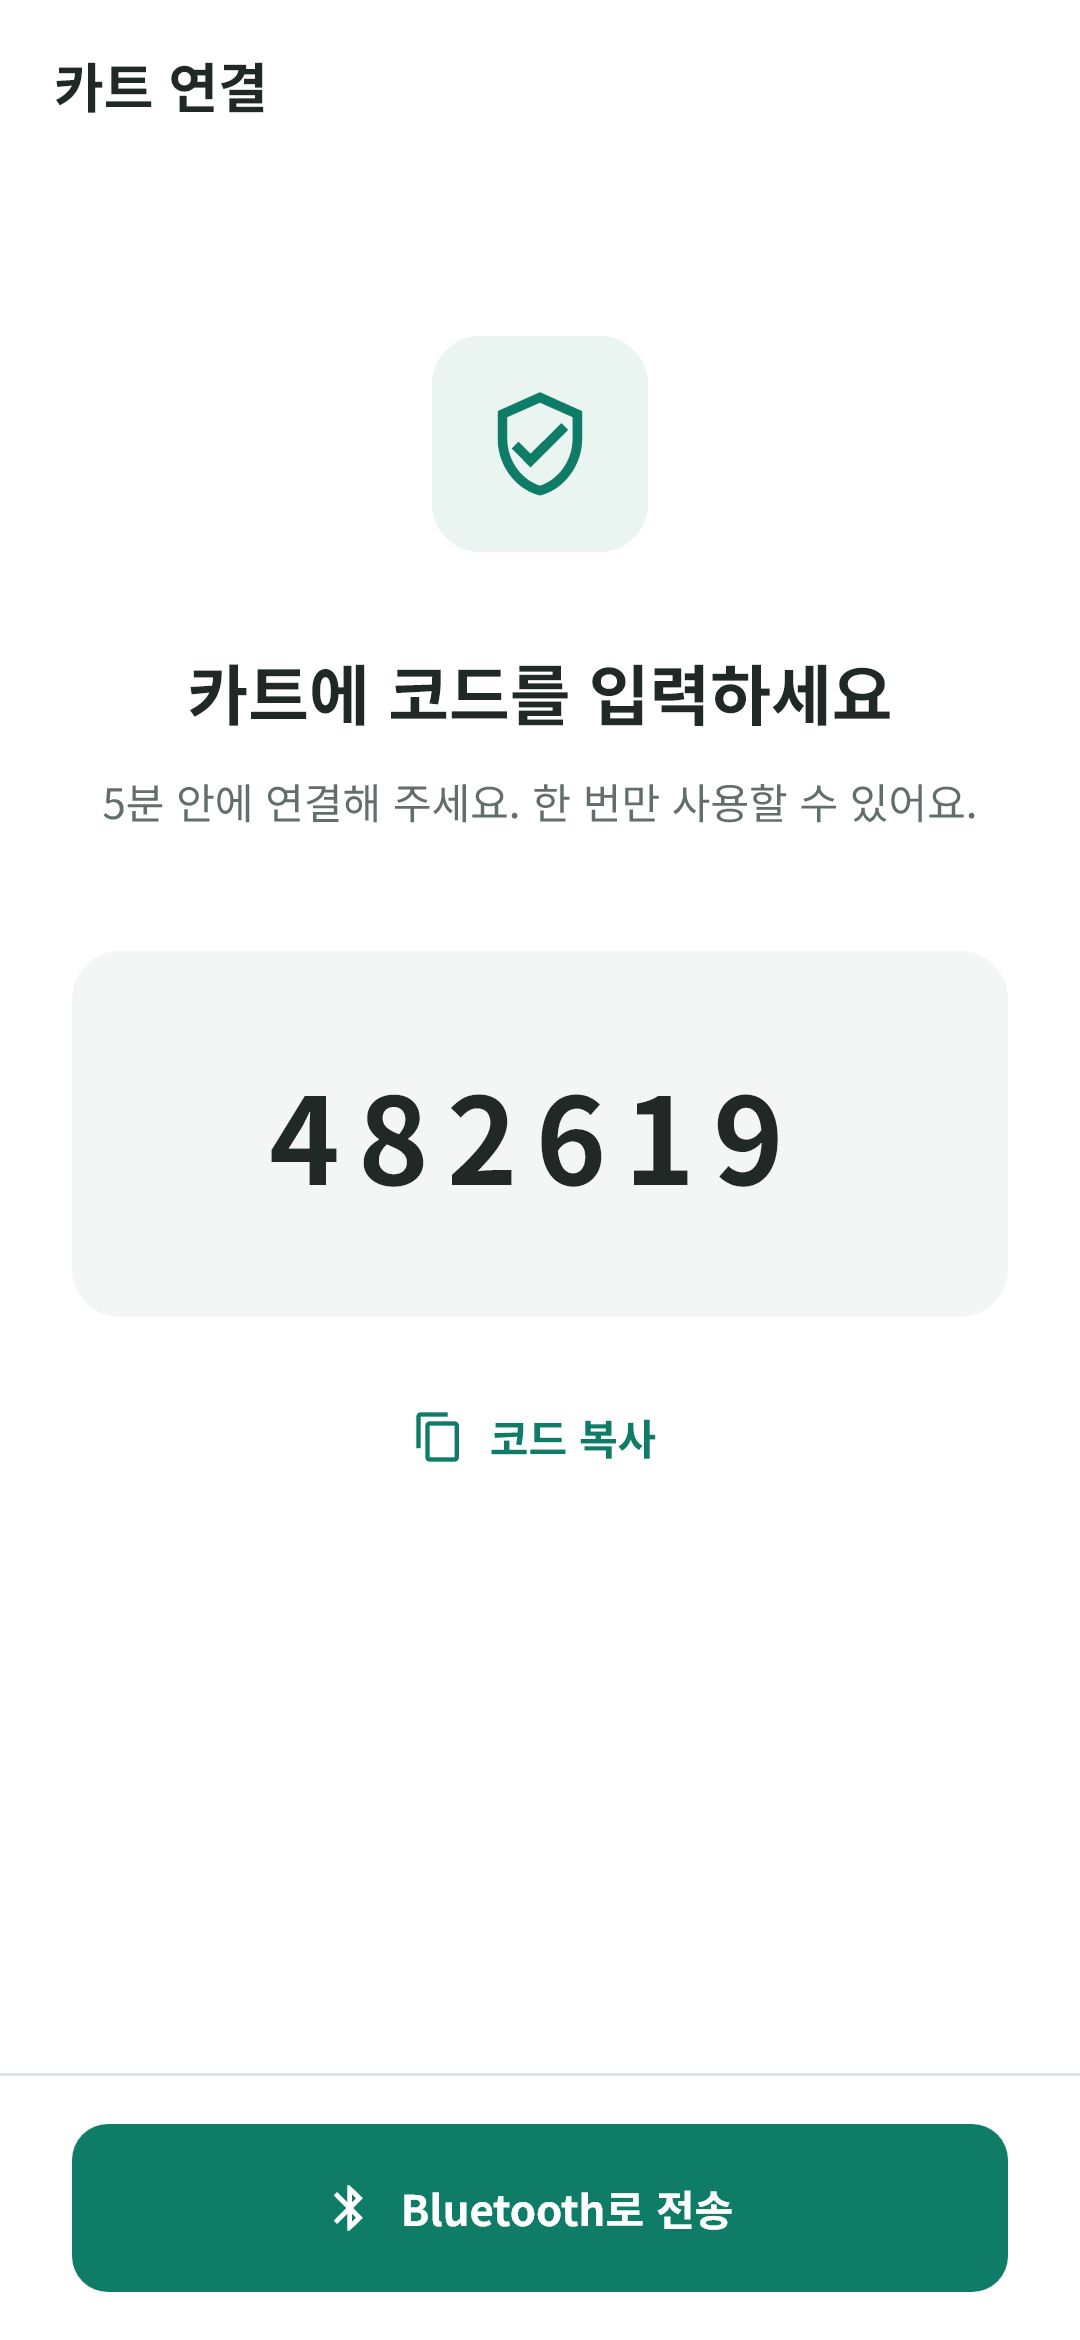
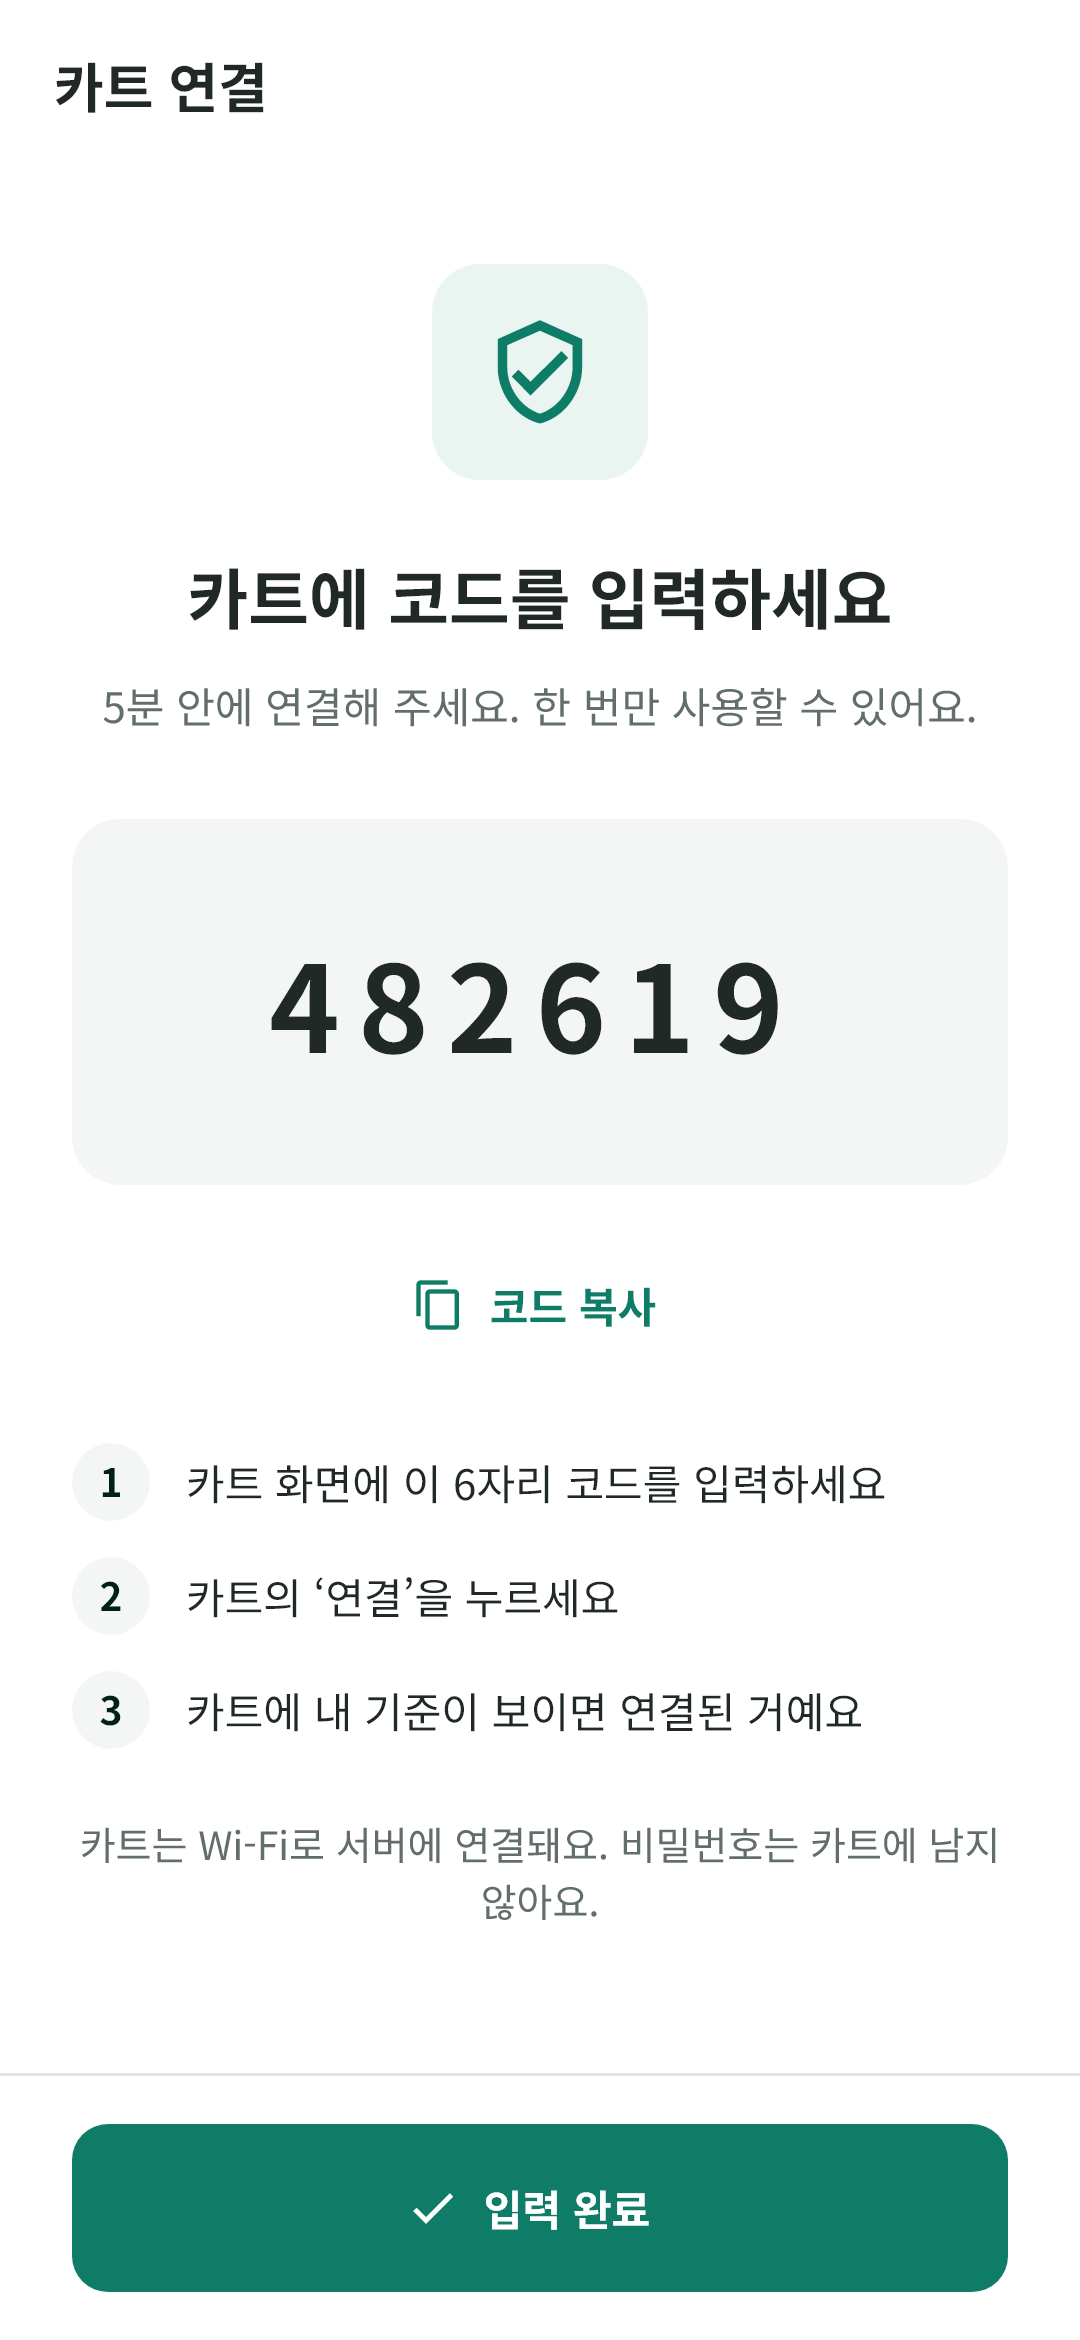
Match the V2 pairing screen to the real cart flow
The cart has no Bluetooth: the user types the one-time code on the cart's
touch screen and the cart exchanges it with the server over Wi-Fi. Replace
the "Bluetooth로 전송" primary action with "입력 완료", add three short steps
that use the cart's own wording, and note that the password never reaches
the cart. Re-captured pairing_code.png; all 26 Flutter tests pass.

diff --git a/V2/mobile/lib/v2_ui.dart b/V2/mobile/lib/v2_ui.dart
@@ -426,22 +426,21 @@ class PairingCodeScreen extends StatelessWidget {
   @override
   Widget build(BuildContext context) => Scaffold(
         appBar: AppBar(title: Text(t('카트 연결'))),
+        // The cart has no Bluetooth: the user types this code on the cart's touch screen,
+        // and the cart exchanges it with the server over Wi-Fi.
         bottomNavigationBar: BottomAction(
           child: FilledButton.icon(
-            onPressed: () => Navigator.push(
-              context,
-              MaterialPageRoute(builder: (_) => CartBleScreen(code: code)),
-            ),
-            icon: const Icon(Icons.bluetooth),
-            label: Text(t('Bluetooth로 전송')),
+            onPressed: () => Navigator.pop(context),
+            icon: const Icon(Icons.check),
+            label: Text(t('입력 완료')),
           ),
         ),
         body: ListView(
           padding: const EdgeInsets.all(24),
           children: [
-            const SizedBox(height: 32),
+            const SizedBox(height: 8),
             const Center(child: BrandMark(size: 72)),
-            const SizedBox(height: 32),
+            const SizedBox(height: 24),
             Text(
               t('카트에 코드를 입력하세요'),
               textAlign: TextAlign.center,
@@ -453,7 +452,7 @@ class PairingCodeScreen extends StatelessWidget {
               textAlign: TextAlign.center,
               style: const TextStyle(color: _mutedInk),
             ),
-            const SizedBox(height: 40),
+            const SizedBox(height: 28),
             SurfacePanel(
               color: _paperWarm,
               borderColor: _paperWarm,
@@ -479,6 +478,36 @@ class PairingCodeScreen extends StatelessWidget {
               },
               icon: const Icon(Icons.copy_outlined),
               label: Text(t('코드 복사')),
+            ),
+            const SizedBox(height: 16),
+            for (final (i, step) in [
+              '카트 화면에 이 6자리 코드를 입력하세요',
+              '카트의 ‘연결’을 누르세요',
+              '카트에 내 기준이 보이면 연결된 거예요',
+            ].indexed)
+              Padding(
+                padding: const EdgeInsets.symmetric(vertical: 6),
+                child: Row(
+                  children: [
+                    CircleAvatar(
+                      radius: 13,
+                      backgroundColor: _paperWarm,
+                      child: Text(
+                        '${i + 1}',
+                        style: const TextStyle(
+                            fontSize: 13, fontWeight: FontWeight.w700),
+                      ),
+                    ),
+                    const SizedBox(width: 12),
+                    Expanded(child: Text(t(step))),
+                  ],
+                ),
+              ),
+            const SizedBox(height: 16),
+            Text(
+              t('카트는 Wi-Fi로 서버에 연결돼요. 비밀번호는 카트에 남지 않아요.'),
+              textAlign: TextAlign.center,
+              style: const TextStyle(color: _mutedInk, fontSize: 13),
             ),
           ],
         ),

diff --git a/V2/mobile/lib/v2_strings.dart b/V2/mobile/lib/v2_strings.dart
@@ -76,6 +76,36 @@ const v2Strings = <String, Map<String, String>>{
     'zh': '请在5分钟内连接。连接码仅可使用一次。',
     'ja': '5分以内に接続してください。1回のみ使えます。'
   },
+  '입력 완료': {
+    'en': 'Done',
+    'ar': 'تم الإدخال',
+    'zh': '输入完成',
+    'ja': '入力完了'
+  },
+  '카트 화면에 이 6자리 코드를 입력하세요': {
+    'en': 'Type this 6-digit code on the cart screen',
+    'ar': 'اكتب هذا الرمز المكوّن من 6 أرقام على شاشة العربة',
+    'zh': '在购物车屏幕上输入这6位连接码',
+    'ja': 'カートの画面にこの6桁のコードを入力'
+  },
+  '카트의 ‘연결’을 누르세요': {
+    'en': 'Tap “Connect” on the cart',
+    'ar': 'اضغط «ربط» على العربة',
+    'zh': '点击购物车上的“连接”',
+    'ja': 'カートの「接続」をタップ'
+  },
+  '카트에 내 기준이 보이면 연결된 거예요': {
+    'en': 'When your criteria appear on the cart, you are connected',
+    'ar': 'عندما تظهر معاييرك على العربة، يكون الربط قد تم',
+    'zh': '购物车上显示您的标准即表示已连接',
+    'ja': 'カートに自分の基準が表示されれば接続完了です'
+  },
+  '카트는 Wi-Fi로 서버에 연결돼요. 비밀번호는 카트에 남지 않아요.': {
+    'en': 'The cart connects to the server over Wi-Fi. Your password is never stored on the cart.',
+    'ar': 'تتصل العربة بالخادم عبر Wi-Fi. لا تُحفظ كلمة المرور على العربة.',
+    'zh': '购物车通过Wi-Fi连接服务器，密码不会保存在购物车上。',
+    'ja': 'カートはWi-Fiでサーバーに接続します。パスワードはカートに残りません。'
+  },
   '코드를 복사했어요.': {
     'en': 'Code copied.',
     'ar': 'تم نسخ الرمز.',

diff --git a/V2/mobile/lib/main.dart b/V2/mobile/lib/main.dart
@@ -3,7 +3,6 @@ import 'dart:io';
 import 'dart:async';
 import 'package:flutter/foundation.dart';
 import 'workspace.dart';
-import 'cart_ble.dart';
 import 'package:flutter/services.dart';
 
 import 'package:flutter/material.dart';

diff --git a/V2/DONE.md b/V2/DONE.md
@@ -19,7 +19,7 @@
 | `cart` | 영양 합계·단위·확인된 수량 표시, 상품별 상태와 48dp 수량 조절, 스캔 버튼 고정 |
 | `history` | 중복 탭 제거, 상태 아이콘과 문구·날짜 중심 목록, 생성 파일명 정리 유지 |
 | `account` | 프로필·내 기준·가족·저장 상품·언어·연결 상태를 단순한 행으로 정리 |
-| `pairing_code` | 큰 6자리 코드, 유효 시간 안내, 복사 보조 행동·Bluetooth 전송 주 행동 |
+| `pairing_code` | 큰 6자리 코드, 유효 시간 안내, 카트 화면 입력 3단계 안내, 복사 보조 행동·입력 완료 주 행동 (카트는 Bluetooth 없이 화면에 코드 입력 후 Wi-Fi로 연결) |
 | `kiosk_connect` | 연결 안내와 숫자 키패드를 좌우 배치, 6자리 입력 후 연결 |
 | `kiosk_ready` | 적용 기준을 먼저 보여주고 큰 라벨 확인 버튼 제공 |
 | `kiosk_preview` | 라벨 조준 영역과 촬영 안내 분리, 고정 위치 확인 버튼 |

diff --git a/V2/README.md b/V2/README.md
@@ -4,7 +4,7 @@
 
 ## 디자인
 
-식품 선택에 필요한 순서로 정보를 배치했습니다. 결과는 **상태 한 단어 → 이유 → 직접 함유/같은 제조시설 → 근거 상세** 순서입니다. 홈은 촬영, 기준 편집은 저장, 장보기는 스캔, 연결 코드는 Bluetooth 전송을 주 행동으로 둡니다. 읽기 전용 화면과 분석 중에는 불필요한 행동 버튼을 추가하지 않았습니다.
+식품 선택에 필요한 순서로 정보를 배치했습니다. 결과는 **상태 한 단어 → 이유 → 직접 함유/같은 제조시설 → 근거 상세** 순서입니다. 홈은 촬영, 기준 편집은 저장, 장보기는 스캔, 연결 코드는 카트 화면에 입력하는 실제 흐름(Wi-Fi 연결)에 맞춰 입력 안내와 입력 완료를 주 행동으로 둡니다. 읽기 전용 화면과 분석 중에는 불필요한 행동 버튼을 추가하지 않았습니다.
 
 | 항목 | 규칙 |
 |---|---|
